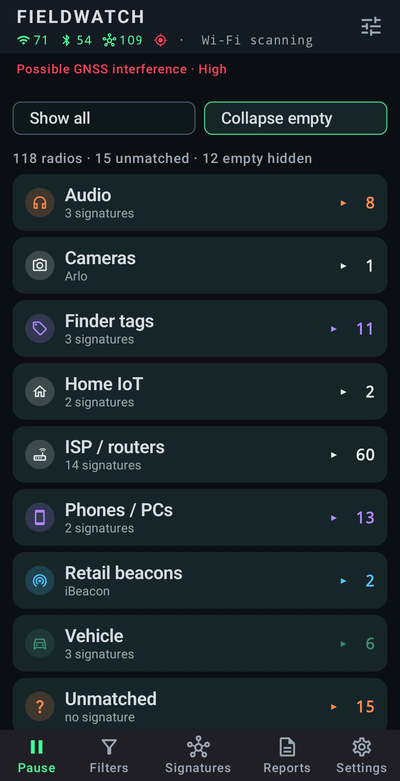
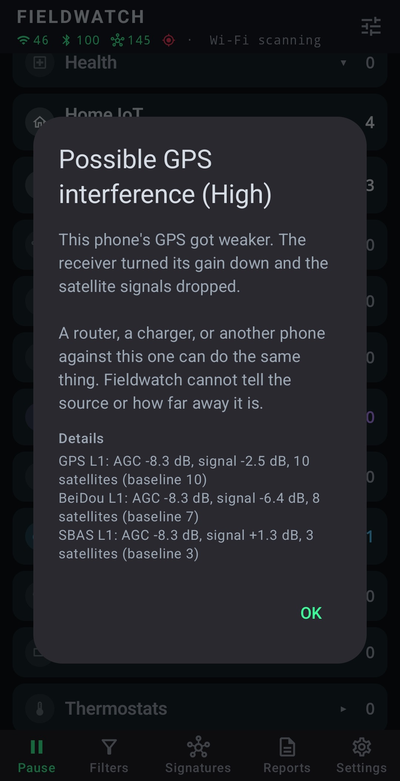
Show the GPS warning on the README.

diff --git a/README.md b/README.md
@@ -33,9 +33,9 @@ There is a lot of functionality in Fieldwatch. I wrote a comprehensive user guid
       <br>A burst of new pairing addresses at the same loudness. The advertisement does not name the tool.
     </td>
     <td align="center" valign="top" width="33%">
-      <img src="docs/readme/gnss.png" width="200" alt="Possible GNSS interference on the live list">
+      <img src="docs/readme/gnss.png" width="200" alt="Possible GPS interference warning">
       <br><strong>GPS</strong>
-      <br>A line when this phone's GPS changes in a way that can mean interference. It does not say where that came from.
+      <br>A warning when this phone's GPS changes in a way that can mean interference. It does not say where that came from.
     </td>
   </tr>
   <tr>
